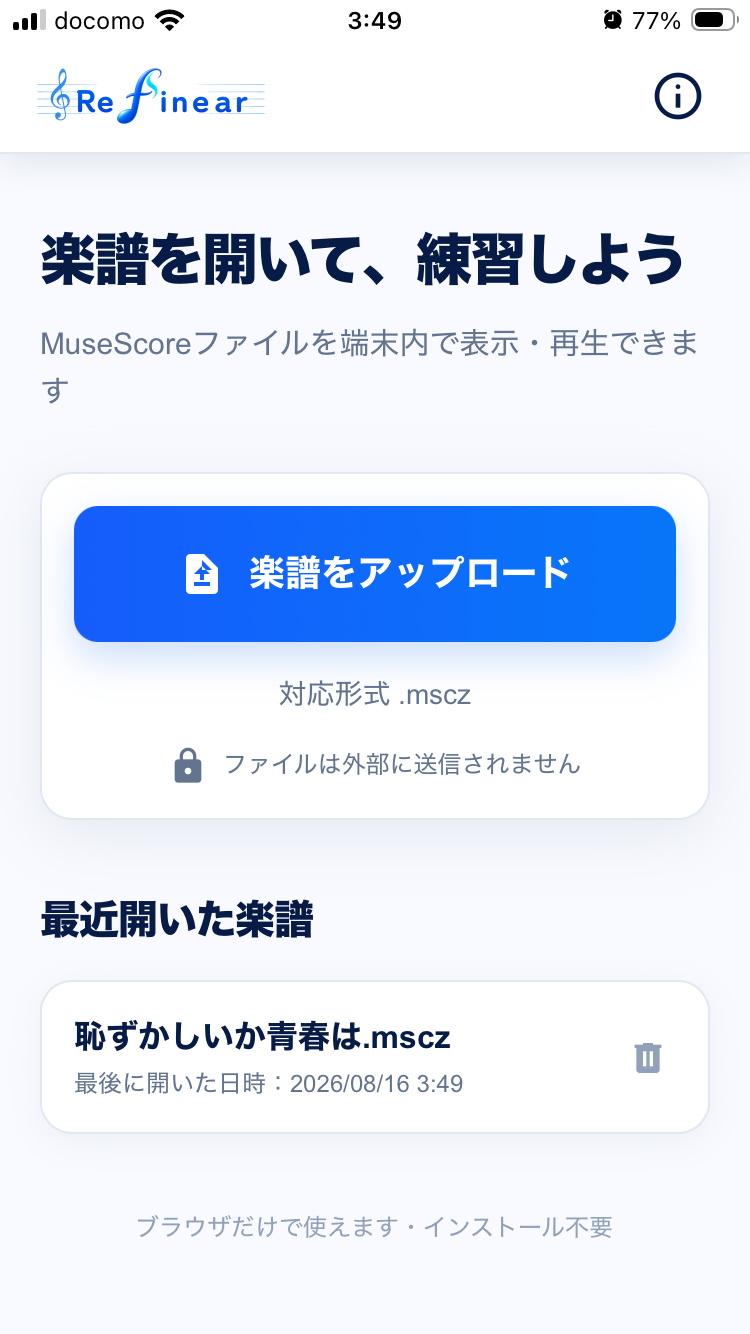
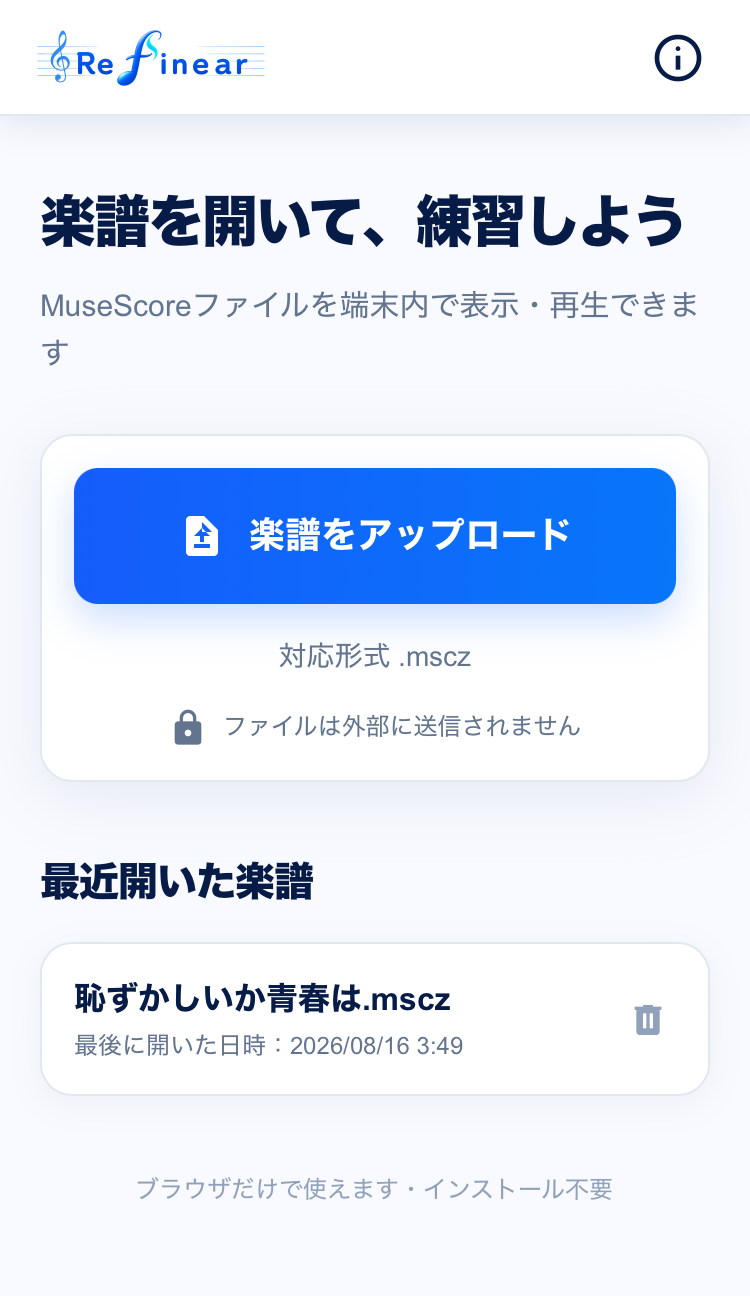
refs #141 LPの構成とホーム画面画像を調整

diff --git a/src/pages/LandingPage.tsx b/src/pages/LandingPage.tsx
@@ -3,7 +3,6 @@ import { Link } from 'react-router-dom'
 import {
   ActionLink,
   FeatureItem,
-  HowToStep,
   LandingScreenshot,
   MixerSection,
   SectionTitle,
@@ -17,7 +16,7 @@ const features = [
     title: '.msczをそのまま表示',
     text: 'MuseScoreファイルを読み込み、そのまま高精細な楽譜で表示します。',
     imageSrc: '/LP/App.PNG',
-    imagePosition: 'center 32%',
+    imagePosition: 'center 17%',
   },
   {
     number: '02',
@@ -34,17 +33,6 @@ const features = [
     imagePosition: 'center 43%',
   },
 ]
-
-const howToSteps = [
-  ['ファイルを選ぶ', '端末内の.msczを選択', '/LP/Home.PNG', 'center 42%'],
-  ['楽譜が開く', 'すぐに譜面が表示される', '/LP/App.PNG', 'center 30%'],
-  [
-    'タップ・再生して練習',
-    'タップで音を確かめながら練習',
-    '/LP/Select.PNG',
-    'center 47%',
-  ],
-] as const
 
 const containerClass =
   'mx-auto w-[calc(100%-2rem)] max-w-295 md:w-[calc(100%-3rem)]'
@@ -160,23 +148,7 @@ export const LandingPage = () => (
         </p>
       </section>
 
-      <section className={`${containerClass} pt-6 pb-4`}>
-        <SectionTitle>使い方は3ステップ</SectionTitle>
-        <div className="grid gap-6.5 md:grid-cols-3 md:gap-11">
-          {howToSteps.map(([title, text, imageSrc, imagePosition], index) => (
-            <HowToStep
-              key={title}
-              number={index + 1}
-              title={title}
-              text={text}
-              imageSrc={imageSrc}
-              imagePosition={imagePosition}
-            />
-          ))}
-        </div>
-      </section>
-
-      <section className="mx-auto w-[calc(100%-1.5rem)] max-w-295 rounded-md bg-radial from-[#12375b] to-[#061b33] px-3.5 py-6.5 text-center text-white md:w-[calc(100%-3rem)] md:p-7.5">
+      <section className="mx-auto w-full max-w-295 bg-radial from-[#12375b] to-[#061b33] px-3.5 py-6.5 text-center text-white md:w-[calc(100%-3rem)] md:p-7.5">
         <h2 className="mb-3.5 text-[23px] font-extrabold tracking-[0.08em] md:text-[34px]">
           次の音取りを、スマホから。
         </h2>
@@ -192,12 +164,5 @@ export const LandingPage = () => (
         <small>対応形式 .mscz / インストール不要</small>
       </section>
     </main>
-
-    <footer
-      className={`${containerClass} flex flex-wrap gap-7.5 px-2 pt-4.5 pb-6.5 text-[13px] md:gap-17.5`}
-    >
-      <Link to="/">アプリ /</Link>
-      <a href="#about">このアプリについて / about</a>
-    </footer>
   </div>
 )
